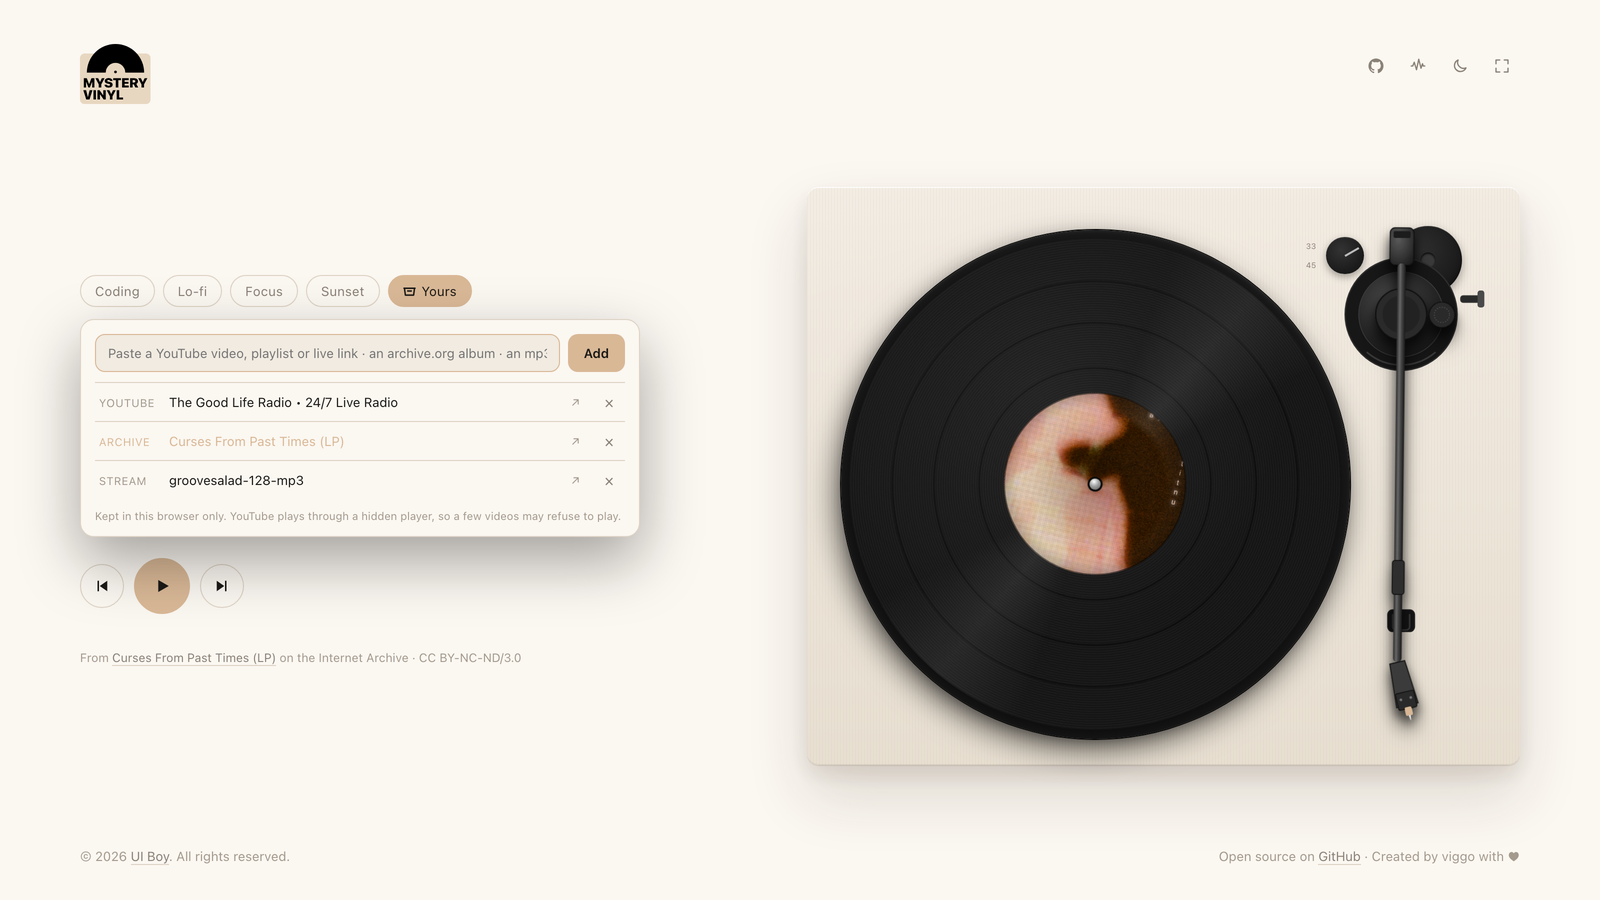
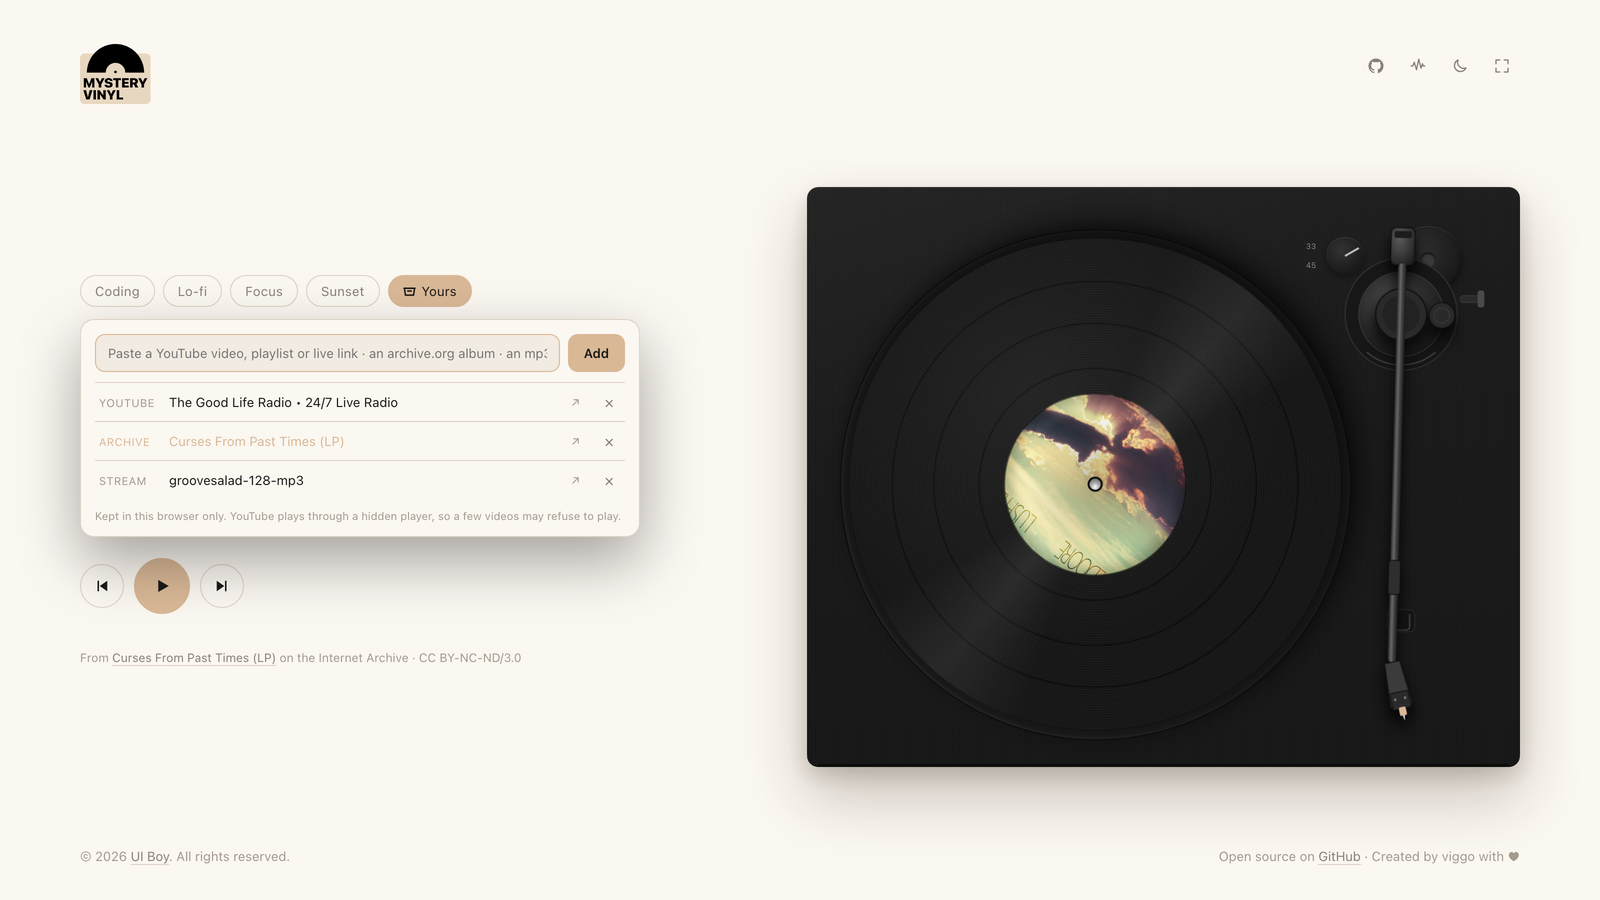
Light theme keeps the deck dark; refresh light-theme screenshots
Claude-Session: https://claude.ai/code/session_01WhSTExguxiphUxfGqsBnMQ

Changed region(s): [[0.5, 0.1867, 0.9688, 0.8711], [0.625, 0.4356, 0.75, 0.6533]]

diff --git a/styles.css b/styles.css
@@ -38,13 +38,14 @@
   --wave-off: #ddd3c5;
   --hint-bg: #1c1a17;
   --hint-ink: #e8d7c0;
-  --plinth-1: #f3ece2;
-  --plinth-2: #e8dfd1;
-  --plinth-edge: rgba(255,255,255,.9);
-  --plinth-bottom: rgba(90,70,50,.08);
-  --plinth-shadow: 0 1px 0 rgba(90,70,50,.12), 0 30px 60px rgba(70,50,30,.16), 0 10px 20px rgba(70,50,30,.10);
-  --plinth-tex: rgba(0,0,0,.02);
-  --plinth-tex-blend: multiply;
+  /* the deck stays dark in the light theme; only its shadow softens */
+  --plinth-1: #1c1c1c;
+  --plinth-2: #171717;
+  --plinth-edge: rgba(255,255,255,.06);
+  --plinth-bottom: rgba(0,0,0,.6);
+  --plinth-shadow: 0 2px 0 #0d0d0d, 0 30px 60px rgba(60,45,30,.28), 0 10px 20px rgba(60,45,30,.18);
+  --plinth-tex: rgba(255,255,255,.012);
+  --plinth-tex-blend: screen;
   color-scheme: light;
 }
 
@@ -321,7 +322,7 @@ body.playing .btn-main .ic-pause { display: block; }
   width: calc(44 / 840 * 100%); aspect-ratio: 1; border-radius: 50%;
   background: radial-gradient(circle at 40% 35%, #333, #1a1a1a 70%);
   box-shadow: inset 0 1px 0 rgba(255,255,255,.08), 0 3px 8px rgba(0,0,0,.35);
-  font-size: calc(1.1 * var(--u)); color: var(--muted); display: grid; place-items: center;
+  font-size: calc(1.1 * var(--u)); color: #8a8a8a; display: grid; place-items: center;
 }
 .knob span { position: absolute; }
 .knob span:first-child { left: -55%; top: 12%; }
